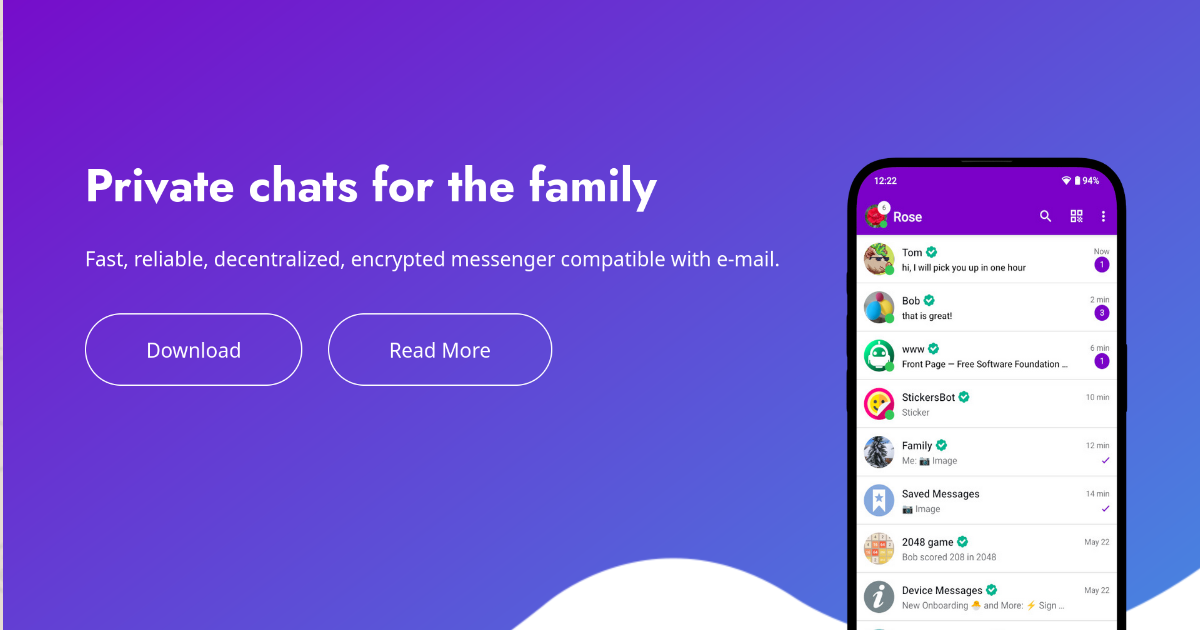
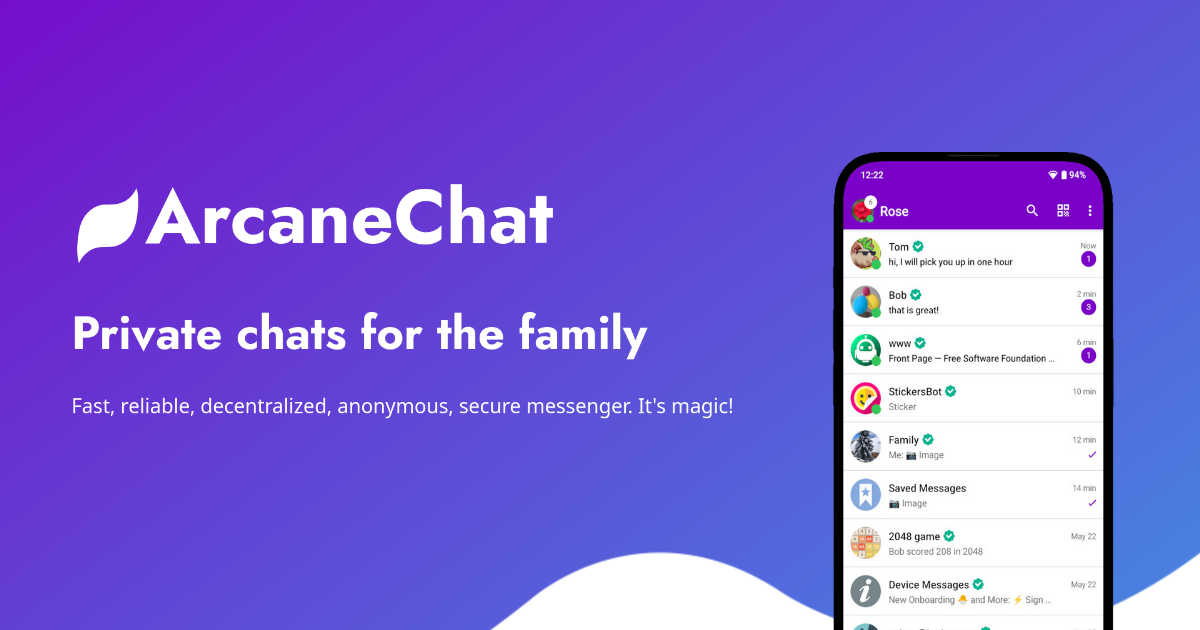
update intro in index.html and social media preview thumbnail

diff --git a/www/arcanechat/index.html b/www/arcanechat/index.html
@@ -111,8 +111,8 @@
               <div class="col-lg-8 text-center text-lg-start">
                 <h1 class="text-white mb-4">Private chats for the family</h1>
                 <p class="text-white">
-                  Fast, reliable, decentralized, encrypted messenger compatible
-                  with e-mail.
+                  Fast, reliable, decentralized, anonymous, secure messenger.
+                  It's magic!
                 </p>
                 <a
                   href="#download"
